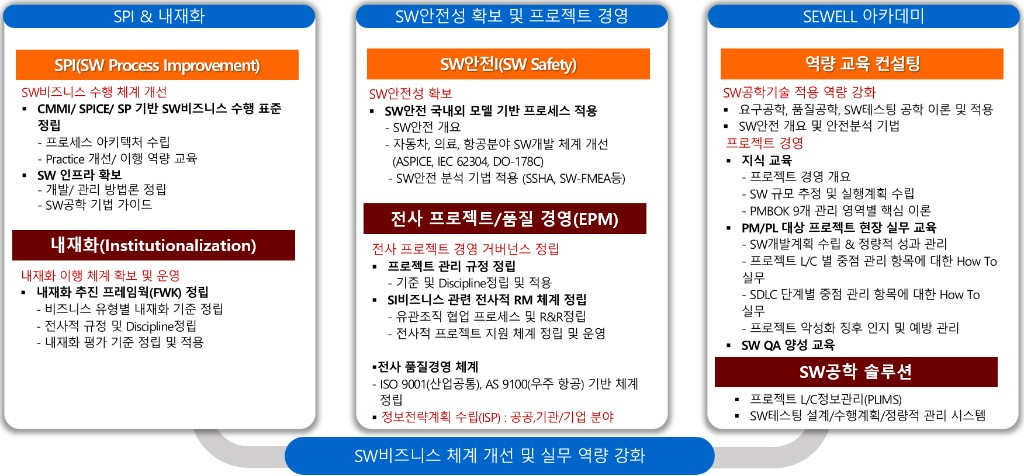
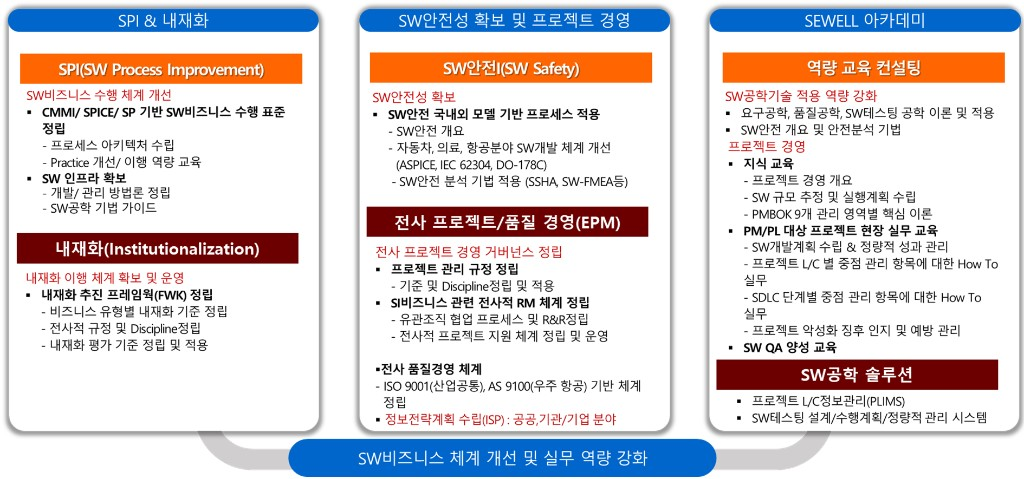
컨설팅 서비스 이미지 업데이트

Changed region(s): [[0.0, 0.0, 1.0, 1.0], [0.1875, 0.8824, 0.25, 0.9706], [0.25, 0.9412, 0.2812, 0.9706]]

diff --git a/public/sub3_3.html b/public/sub3_3.html
@@ -89,13 +89,15 @@
       <div id="SubPageWide" class="container">
         <img
           style="
-            width: 120%;
-            image-rendering: -webkit-optimize-contrast;
+            width: 100%;
+            max-width: 100%;
+            height: auto;
+            display: block;
             margin-top: -30px;
-            margin-left: -100px;
+            margin-left: 0;
           "
           src="images/about_consultingservice.png"
-          alt=""
+          alt="컨설팅 서비스 영역 안내"
         />
       </div>
     </div>
